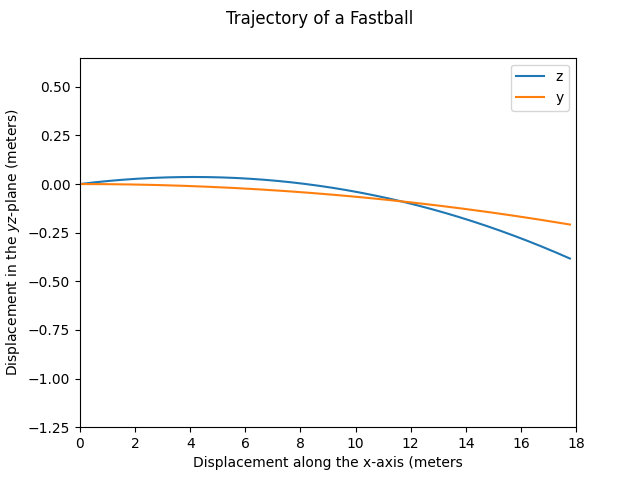
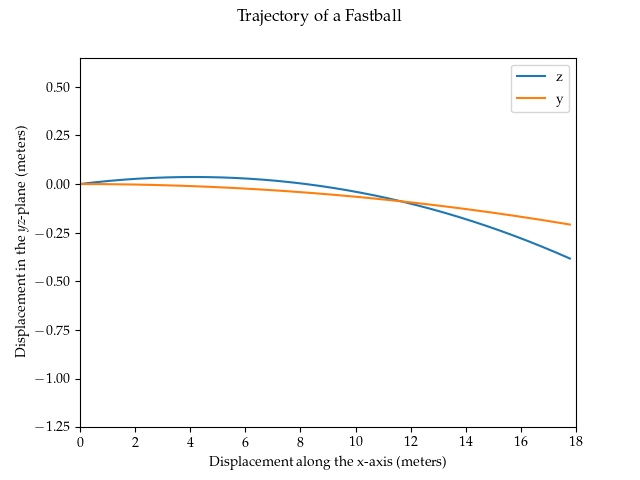
Changed to Latex Font and fixed some errors

diff --git a/ballistics_final.py b/ballistics_final.py
@@ -6,6 +6,8 @@ from pylab import plot,xlabel,ylabel,show
 import numpy as np
 import scipy.integrate as integrate
 
+plt.rc('text',usetex=True) 
+plt.rc('font', family='serif',serif='Palatino')
 
 B = 4.1e-4
 omega = 1800 * 0.1047198 # rpm
@@ -92,7 +94,7 @@ plt.suptitle("Trajectory of a Fastball")
 plt.xlim(0, 18)
 plt.ylim(-1.25,0.65)
 ylabel(r'Displacement in the $yz$-plane (meters)')
-xlabel(r'Displacement along the x-axis (meters')
+xlabel(r'Displacement along the x-axis (meters)')
 plt.legend()
 plt.savefig("Fastball")
 show()
@@ -170,7 +172,7 @@ plt.suptitle("Trajectory of a Screwball")
 plt.xlim(0, 18)
 plt.ylim(-1.25,0.65)
 ylabel(r'Displacement in the $yz$-plane (meters)')
-xlabel(r'Displacement along the x-axis (meters')
+xlabel(r'Displacement along the x-axis (meters)')
 plt.legend()
 plt.savefig("Screwball")
 show()
@@ -250,7 +252,7 @@ plt.suptitle("Trajectory of a Slider")
 plt.xlim(0, 18)
 plt.ylim(-1.25,0.65)
 ylabel(r'Displacement in the $yz$-plane (meters)')
-xlabel(r'Displacement along the x-axis (meters')
+xlabel(r'Displacement along the x-axis (meters)')
 plt.legend()
 plt.savefig("Slider")
 show()
@@ -329,7 +331,7 @@ plt.suptitle("Trajectory of a Curveball")
 plt.xlim(0, 18)
 plt.ylim(-1.25,0.65)
 ylabel(r'Displacement in the $yz$-plane (meters)')
-xlabel(r'Displacement along the x-axis (meters')
+xlabel(r'Displacement along the x-axis (meters)')
 plt.legend()
 plt.savefig("Curveball")
 show()
